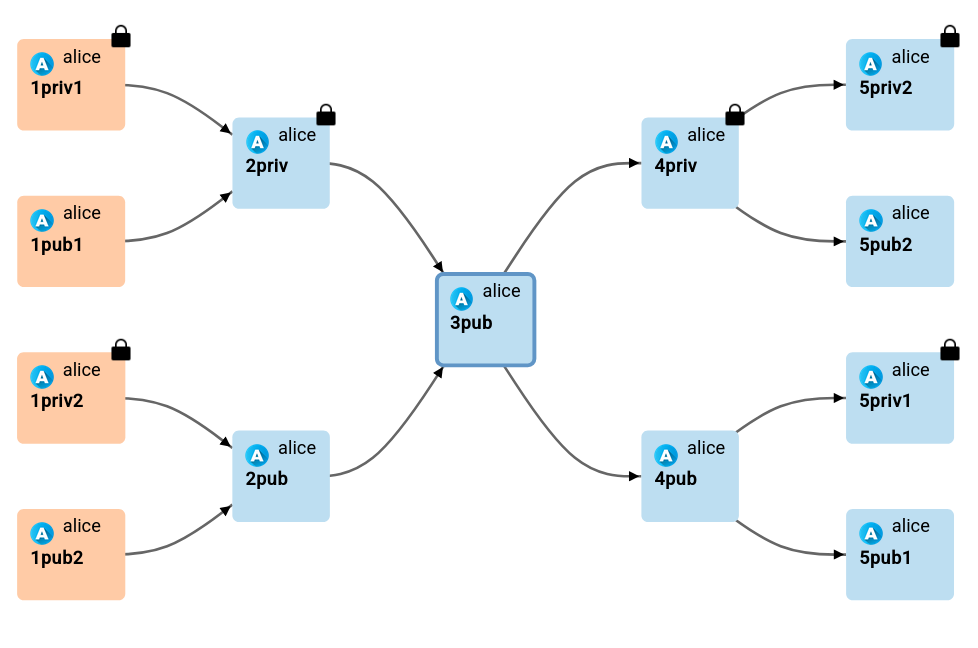
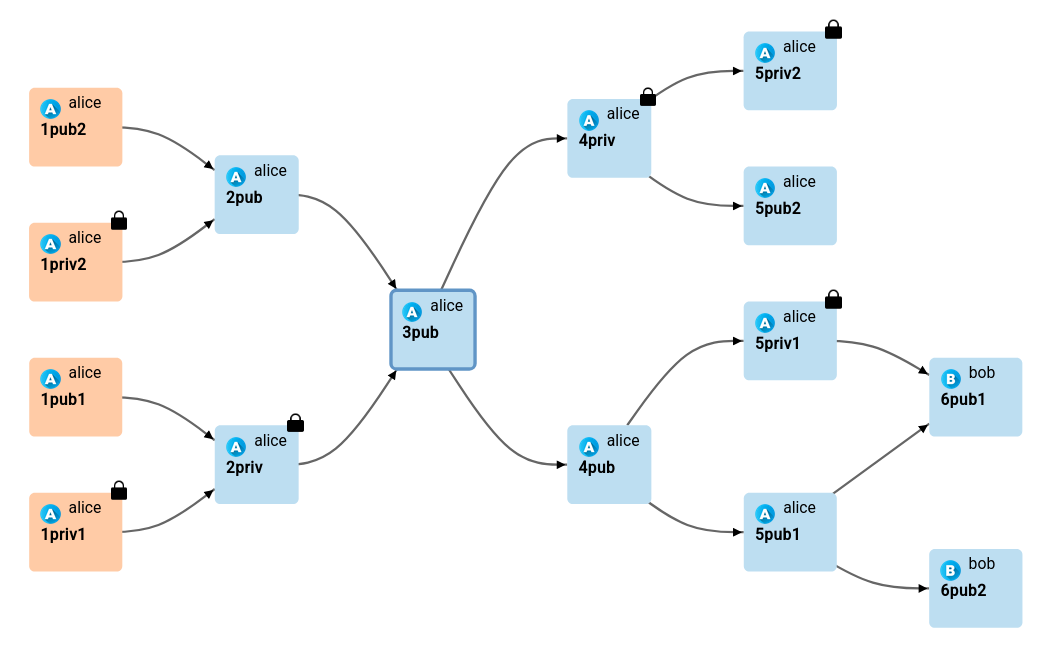
Private Datasets: add update derivative example

diff --git a/examples/private-datasets/README.md b/examples/private-datasets/README.md
@@ -41,3 +41,10 @@ How `alice` sees the `alice/3pub` dataset lineage:
 How `bob` sees the `alice/3pub` dataset lineage:
 
 ![bob_3pub_lineage.png](assets/bob_3pub_lineage.png)
+
+### Dataset with a private dependency
+
+In case we have an inaccessible dataset of another user, we cannot update our derived dataset:
+
+![bob_6pub1_lineage.png](assets/bob_6pub1_lineage.png)
+![bob_6pub1_update.png](assets/bob_6pub1_update.png)
